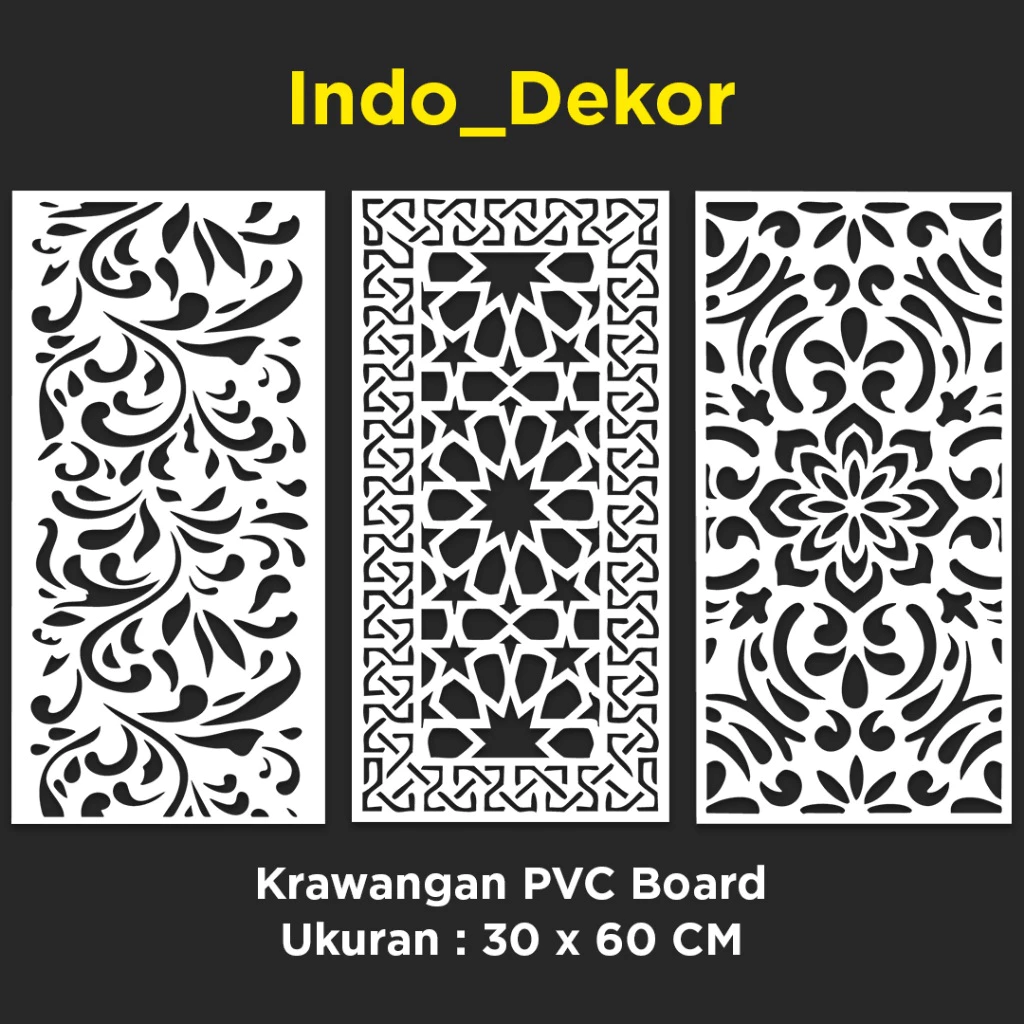
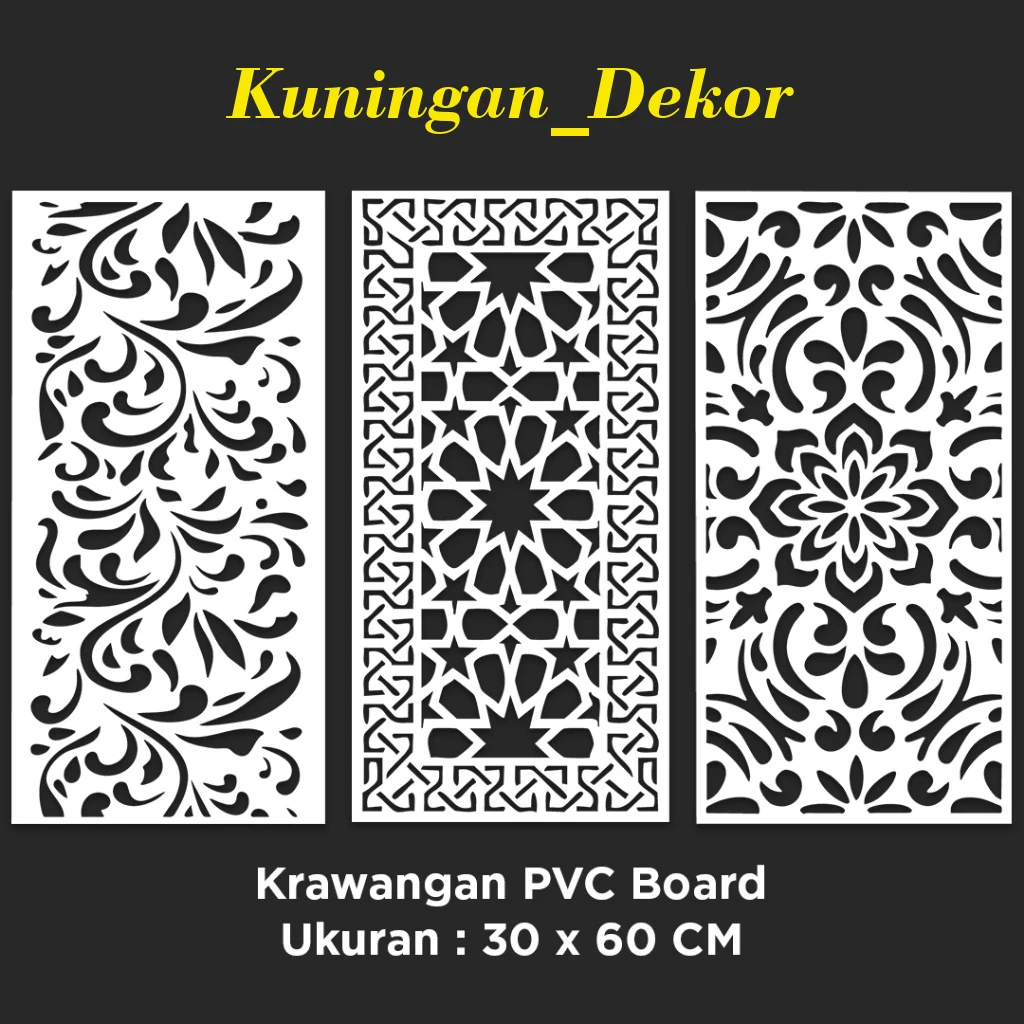
Add Meta Pixel tracking and rebrand images to Kuningan_Dekor
- Add Meta Pixel (ID: 2438385799967337) with PageView and ViewContent events
- Add InitiateCheckout tracking on all CTA buttons
- Add Lead event when user scrolls to order form
- Replace Indo_Dekor branding with Kuningan_Dekor on all motif images

Made-with: Cursor

Changed region(s): [[0.2188, 0.0625, 0.7812, 0.1562]]

diff --git a/index.html b/index.html
@@ -5,6 +5,27 @@
 <meta name="viewport" content="width=device-width, initial-scale=1.0">
 <title>Krawangan PVC Board Premium - Upgrade Dinding Rumah dalam 5 Menit!</title>
 <meta name="description" content="Krawangan PVC Board Premium. Dekorasi dinding mewah, harga merakyat. Anti rayap, tahan air, pasang sendiri 5 menit. CNC cutting presisi tinggi.">
+<!-- Meta Pixel Code -->
+<script>
+!function(f,b,e,v,n,t,s)
+{if(f.fbq)return;n=f.fbq=function(){n.callMethod?
+n.callMethod.apply(n,arguments):n.queue.push(arguments)};
+if(!f._fbq)f._fbq=n;n.push=n;n.loaded=!0;n.version='2.0';
+n.queue=[];t=b.createElement(e);t.async=!0;
+t.src=v;s=b.getElementsByTagName(e)[0];
+s.parentNode.insertBefore(t,s)}(window, document,'script',
+'https://connect.facebook.net/en_US/fbevents.js');
+fbq('init', '2438385799967337');
+fbq('track', 'PageView');
+fbq('track', 'ViewContent', {
+  content_name: 'Krawangan PVC Board Premium',
+  content_category: 'Dekorasi Rumah'
+});
+</script>
+<noscript><img height="1" width="1" style="display:none"
+src="https://www.facebook.com/tr?id=2438385799967337&ev=PageView&noscript=1"
+/></noscript>
+<!-- End Meta Pixel Code -->
 <script src="https://cdn.tailwindcss.com"></script>
 <link rel="preconnect" href="https://fonts.googleapis.com">
 <link href="https://fonts.googleapis.com/css2?family=Inter:wght@400;500;600;700;800;900&display=swap" rel="stylesheet">
@@ -160,7 +181,7 @@ tailwind.config = {
           Krawangan PVC Board Premium &mdash; Tampilan mewah, harga merakyat, pasang sendiri.
         </p>
         <div class="fade-up mb-4 sm:mb-6">
-          <a href="#order" class="pulse-cta inline-block bg-gradient-to-r from-brand to-red-500 text-white font-black text-base sm:text-lg px-6 sm:px-8 py-3.5 sm:py-4 rounded-xl shadow-2xl hover:brightness-110 transition w-full sm:w-auto text-center">
+          <a href="#order" onclick="fbq('track','InitiateCheckout',{content_name:'Hero CTA'})" class="pulse-cta inline-block bg-gradient-to-r from-brand to-red-500 text-white font-black text-base sm:text-lg px-6 sm:px-8 py-3.5 sm:py-4 rounded-xl shadow-2xl hover:brightness-110 transition w-full sm:w-auto text-center">
             🛒 BELI SEKARANG - SEBELUM KEHABISAN
           </a>
         </div>
@@ -261,7 +282,7 @@ tailwind.config = {
         <img src="img/interior-1.png" alt="Ruang tamu mewah dengan PVC Board" class="w-full h-full object-cover hover:scale-105 transition duration-500" loading="lazy">
       </div>
     </div>
-    <a href="#order" class="inline-block pulse-cta bg-gradient-to-r from-brand to-red-500 text-white font-black text-base sm:text-lg px-6 sm:px-8 py-3.5 sm:py-4 rounded-xl shadow-2xl hover:brightness-110 transition fade-up w-full sm:w-auto text-center">
+    <a href="#order" onclick="fbq('track','InitiateCheckout',{content_name:'Solution CTA'})" class="inline-block pulse-cta bg-gradient-to-r from-brand to-red-500 text-white font-black text-base sm:text-lg px-6 sm:px-8 py-3.5 sm:py-4 rounded-xl shadow-2xl hover:brightness-110 transition fade-up w-full sm:w-auto text-center">
       MAU UPGRADE RUMAH SEKARANG →
     </a>
   </div>
@@ -357,7 +378,7 @@ tailwind.config = {
       </table>
     </div>
     <div class="text-center mt-6 sm:mt-8 fade-up">
-      <a href="#order" class="inline-block bg-gradient-to-r from-green-500 to-green-600 text-white font-black text-base sm:text-lg px-6 sm:px-8 py-3.5 sm:py-4 rounded-xl shadow-2xl hover:brightness-110 transition w-full sm:w-auto text-center">
+      <a href="#order" onclick="fbq('track','InitiateCheckout',{content_name:'Comparison CTA'})" class="inline-block bg-gradient-to-r from-green-500 to-green-600 text-white font-black text-base sm:text-lg px-6 sm:px-8 py-3.5 sm:py-4 rounded-xl shadow-2xl hover:brightness-110 transition w-full sm:w-auto text-center">
         PILIHAN UDAH JELAS → PESAN SEKARANG
       </a>
     </div>
@@ -530,7 +551,7 @@ tailwind.config = {
         </div>
         <p class="text-xs text-gray-500 mt-2">🏭 Produksi harian terbatas &mdash; stok bisa habis kapan saja</p>
       </div>
-      <a href="#order" class="block text-center pulse-cta bg-gradient-to-r from-brand to-red-500 text-white font-black text-lg px-8 py-4 rounded-xl shadow-2xl hover:brightness-110 transition fade-up">
+      <a href="#order" onclick="fbq('track','InitiateCheckout',{content_name:'Pricing CTA'})" class="block text-center pulse-cta bg-gradient-to-r from-brand to-red-500 text-white font-black text-lg px-8 py-4 rounded-xl shadow-2xl hover:brightness-110 transition fade-up">
         🛒 PESAN SEKARANG → PILIH PAKET DI BAWAH
       </a>
     </div>
@@ -678,7 +699,7 @@ tailwind.config = {
   <div class="max-w-3xl mx-auto text-center">
     <p class="text-lg md:text-2xl font-black mb-3 fade-up">⚠ TERAKHIR KALI KAMI TAWARKAN HARGA INI</p>
     <p class="text-gray-400 mb-5 fade-up text-sm">Setelah promo berakhir, harga paket naik drastis. Gak ada perpanjangan.</p>
-    <a href="#order" class="inline-block pulse-cta bg-gradient-to-r from-brand to-red-500 text-white font-black text-lg px-8 py-4 rounded-xl shadow-2xl hover:brightness-110 transition fade-up">
+    <a href="#order" onclick="fbq('track','InitiateCheckout',{content_name:'Final Urgency CTA'})" class="inline-block pulse-cta bg-gradient-to-r from-brand to-red-500 text-white font-black text-lg px-8 py-4 rounded-xl shadow-2xl hover:brightness-110 transition fade-up">
       AMANKAN HARGA PROMO SEKARANG →
     </a>
   </div>
@@ -699,7 +720,7 @@ tailwind.config = {
       <div>
         <div class="text-xs font-bold">Krawangan PVC Board</div>
       </div>
-      <a href="#order" class="flex-shrink-0 text-center bg-gradient-to-r from-brand to-red-500 text-white font-black text-sm px-5 py-2.5 rounded-xl hover:brightness-110 transition">
+      <a href="#order" onclick="fbq('track','InitiateCheckout',{content_name:'Sticky CTA'})" class="flex-shrink-0 text-center bg-gradient-to-r from-brand to-red-500 text-white font-black text-sm px-5 py-2.5 rounded-xl hover:brightness-110 transition">
         🛒 PESAN SEKARANG
       </a>
     </div>
@@ -787,6 +808,20 @@ tailwind.config = {
     entries.forEach(entry => { if (entry.isIntersecting) { animateCounter(counterEl, 12847); counterObserver.unobserve(entry.target); } });
   }, { threshold: 0.5 });
   counterObserver.observe(counterEl);
+
+  // Meta Pixel: track when user scrolls to order form
+  const orderSection = document.getElementById('order');
+  if (orderSection) {
+    const orderObserver = new IntersectionObserver((entries) => {
+      entries.forEach(entry => {
+        if (entry.isIntersecting) {
+          fbq('track', 'Lead', { content_name: 'Order Form Viewed' });
+          orderObserver.unobserve(entry.target);
+        }
+      });
+    }, { threshold: 0.3 });
+    orderObserver.observe(orderSection);
+  }
 })();
 
 function toggleFaq(item) {
